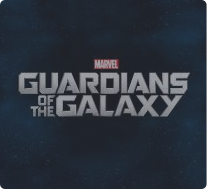
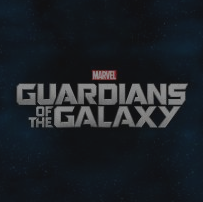
Making it better, added images, and chancged CSS

diff --git a/index.html b/index.html
@@ -52,7 +52,7 @@
         <div class="movies">
             <div class="container">
                 <div class="movies-grid">
-                    <div class="card">
+                    <div id="o01" class="card">
                         <div class="bg"><img src="img/01.png" alt="image" class="card-image"></div>
                         <div class="details">
                             <div class="likes"></div>
@@ -71,7 +71,8 @@
                         </div>
                         <div class="title">1</div>
                     </div>
-                    <div class="card">
+                    <div id="o02" class="card">
+                        <div class="bg"><img src="img/02.png" alt="image" class="card-image"></div>
                         <div class="details">
                             <div class="likes"></div>
                             <div class="comments"></div>
@@ -89,7 +90,8 @@
                         </div>
                         <div class="title">2</div>
                     </div>
-                    <div class="card card-detail">
+                    <div id="o03" class="card card-detail">
+                        <div class="bg"><img src="img/03.png" alt="image" class="card-image"></div>
                         <div class="details">
                             <div class="likes"></div>
                             <div class="comments"></div>
@@ -107,7 +109,8 @@
                         </div>
                         <div class="title">3</div>
                     </div>
-                    <div class="card card-double">
+                    <div id="o04" class="card card-double">
+                        <div class="bg"><img src="img/04.png" alt="image" class="card-image"></div>
                         <div class="details">
                             <div class="likes"></div>
                             <div class="comments"></div>
@@ -125,7 +128,8 @@
                         </div>
                         <div class="title">4</div>
                     </div>
-                    <div class="card card-detail">
+                    <div id="o05" class="card card-detail">
+                        <div class="bg"><img src="img/05.png" alt="image" class="card-image"></div>
                         <div class="details">
                             <div class="likes"></div>
                             <div class="comments"></div>
@@ -143,7 +147,8 @@
                         </div>
                         <div class="title">5</div>
                     </div>
-                    <div class="card">
+                    <div id="o06" class="card">
+                        <div class="bg"><img src="img/06.png" alt="image" class="card-image"></div>
                         <div class="details">
                             <div class="likes"></div>
                             <div class="comments"></div>
@@ -161,7 +166,8 @@
                         </div>
                         <div class="title">6</div>
                     </div>
-                    <div class="card">
+                    <div id="o07" class="card card-detail">
+                        <div class="bg"><img src="img/07.png" alt="image" class="card-image"></div>
                         <div class="details">
                             <div class="likes"></div>
                             <div class="comments"></div>
@@ -179,7 +185,8 @@
                         </div>
                         <div class="title">7</div>
                     </div>
-                    <div class="card">
+                    <div id="o08" class="card">
+                        <div class="bg"><img src="img/08.png" alt="image" class="card-image"></div>
                         <div class="details">
                             <div class="likes"></div>
                             <div class="comments"></div>
@@ -197,7 +204,8 @@
                         </div>
                         <div class="title">8</div>
                     </div>
-                    <div class="card card-double">
+                    <div id="o09" class="card card-double">
+                        <div class="bg"><img src="img/09.png" alt="image" class="card-image"></div>
                         <div class="details">
                             <div class="likes"></div>
                             <div class="comments"></div>
@@ -214,6 +222,25 @@
                             <div class="time-bar__bar"></div>
                         </div>
                         <div class="title">9</div>
+                    </div>
+                    <div id="o10" class="card">
+                        <div class="bg"><img src="img/10.png" alt="image" class="card-image"></div>
+                        <div class="details">
+                            <div class="likes"></div>
+                            <div class="comments"></div>
+                            <div class="downloads"></div>
+                            <div class="rating"></div>
+                            <div class="rel-date"></div>
+                        </div>
+                        <div class="info">
+                            <div class="likes"></div>
+                            <div class="downloads"></div>
+                        </div>
+                        <div class="time-bar">
+                            <div class="btn"></div>
+                            <div class="time-bar__bar"></div>
+                        </div>
+                        <div class="title">3</div>
                     </div>
                 </div>
             </div>

diff --git a/styles/null.css b/styles/null.css
@@ -1,78 +1,15 @@
-/* Указываем box sizing */
-*,
-*::before,
-*::after {
-  box-sizing: border-box;
-}
-
-/* Убираем внутренние отступы */
-ul[class],
-ol[class] {
-  padding: 0;
-}
-
-/* Убираем внешние отступы */
-body,
-h1,
-h2,
-h3,
-h4,
-p,
-ul[class],
-ol[class],
-li,
-figure,
-figcaption,
-blockquote,
-dl,
-dd {
-  margin: 0;
-}
-
-/* Выставляем основные настройки по-умолчанию для body */
-body {
-  min-height: 100vh;
-  scroll-behavior: smooth;
-  text-rendering: optimizeSpeed;
-  line-height: 1.5;
-}
-
-/* Удаляем стандартную стилизацию для всех ul и il, у которых есть атрибут class*/
-ul[class],
-ol[class] {
-  list-style: none;
-}
-
-/* Элементы a, у которых нет класса, сбрасываем до дефолтных стилей */
-a:not([class]) {
-  text-decoration-skip-ink: auto;
-}
-
-/* Упрощаем работу с изображениями */
-img {
-  max-width: 100%;
-  display: block;
-}
-
-/* Указываем понятную периодичность в потоке данных у article*/
-article > * + * {
-  margin-top: 1em;
-}
-
-/* Наследуем шрифты для инпутов и кнопок */
-input,
-button,
-textarea,
-select {
-  font: inherit;
-}
-
-/* Удаляем все анимации и переходы для людей, которые предпочитай их не использовать */
-@media (prefers-reduced-motion: reduce) {
-  * {
-    animation-duration: 0.01ms !important;
-    animation-iteration-count: 1 !important;
-    transition-duration: 0.01ms !important;
-    scroll-behavior: auto !important;
-  }
-}
+*{padding: 0;margin: 0;border: 0;}
+*,*:before,*:after{-moz-box-sizing: border-box;-webkit-box-sizing: border-box;box-sizing: border-box;}
+:focus,:active{outline: none;}
+a:focus,a:active{outline: none;}
+nav,footer,header,aside{display: block;}
+html,body{height:100%;width:100%;font-size:100%;line-height:1;font-size:14px;-ms-text-size-adjust:100%;-moz-text-size-adjust:100%;-webkit-text-size-adjust:100%;}
+input,button,textarea{font-family:inherit;}
+input::-ms-clear{display: none;}
+button{cursor: pointer;}
+button::-moz-focus-inner {padding:0;border:0;}
+a,a:visited{text-decoration: none;}
+a:hover{text-decoration: none;}
+ul li{list-style: none;}
+img{vertical-align: top;}
+h1,h2,h3,h4,h5,h6{font-size:inherit;font-weight: inherit;}

diff --git a/styles/style.css b/styles/style.css
@@ -38,22 +38,75 @@
     text-align: left;
     font-size: 48px;
     color: #fff;
+    -webkit-text-stroke: 1px;
+    -webkit-text-stroke-color: #000;
 }
 .card { 
     position: relative;
     width: 200px;
     height: 200px;
-    border-radius: 30px;
+    border-radius: 10px;
     overflow: hidden;
-    border: 2px solid #000;
+    box-shadow: none;
+}
+
+.card::after{
+    position: absolute;
+    content: '';
+    z-index: 5;
+    top: 0;
+    bottom: 0;
+    left: 0;
+    right: 0;
+    width: 100%;
+    height: 100%;
+    border-radius: 10px;
+    transition: all 0.3s ease-in-out;
+}
+.card:hover::after{    
+    box-shadow: inset 0 0 0 5px red;
+}
+
+.bg {
+    width: 100%;
+    height: 100%;
 }
 .card-image{
+    padding: 0;
     position: absolute;
-    left: 0;
-    bottom: 0;
-    width: 200px;
-    height: 200px;
+    left: 0px;
+    bottom: 0px;
+    object-fit: cover;
+    width: 100%;
+    height: 100%;
 }
+.card-detail .card-image{
+    object-fit: cover;
+    bottom: -165px;
+}
+
+.bg::after{
+    position: absolute;
+    content: "";
+    top: 0;
+    left: 0;
+    right: 0;
+    bottom: 0;
+    background-color: #3f444e;
+    opacity: 0.4;
+    transition: all 0.4s ease-in-out;
+}
+.card-detail .bg::after{
+    opacity: 0.7;
+    top: 165px;
+    transition: all 0.4s ease-in-out;
+}
+
+.card:hover .bg::after{
+    opacity: 0;
+}
+
+
 .card-double{
     grid-column: span 2;
     width: 430px;
@@ -62,7 +115,7 @@
 .card-detail{
     grid-row: span 2;
     width: 200px;
-    height: 430px;
+    height: 415px;
 }
 .details {
     display: none;
